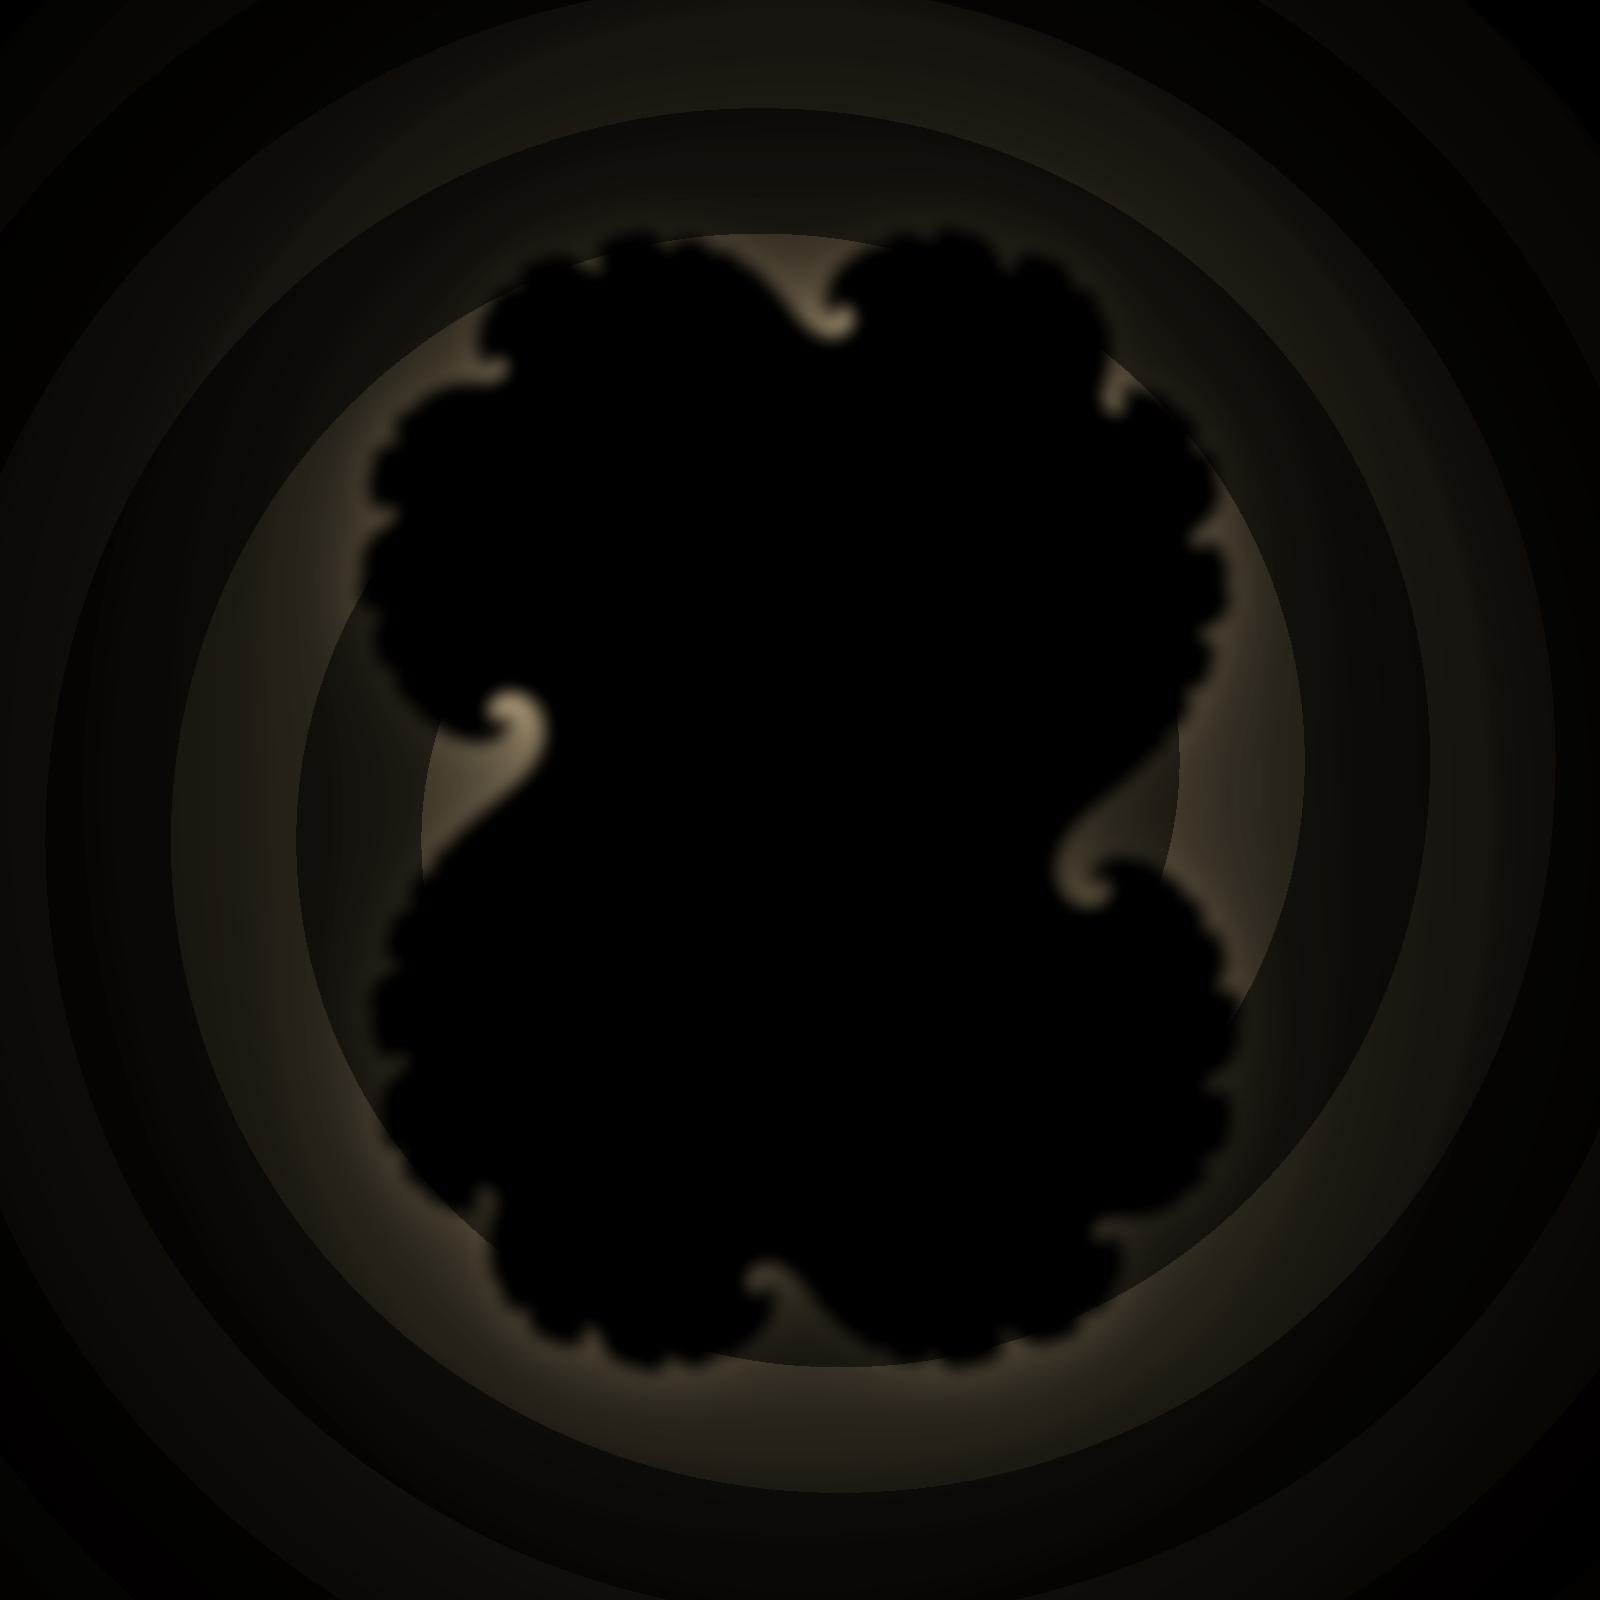
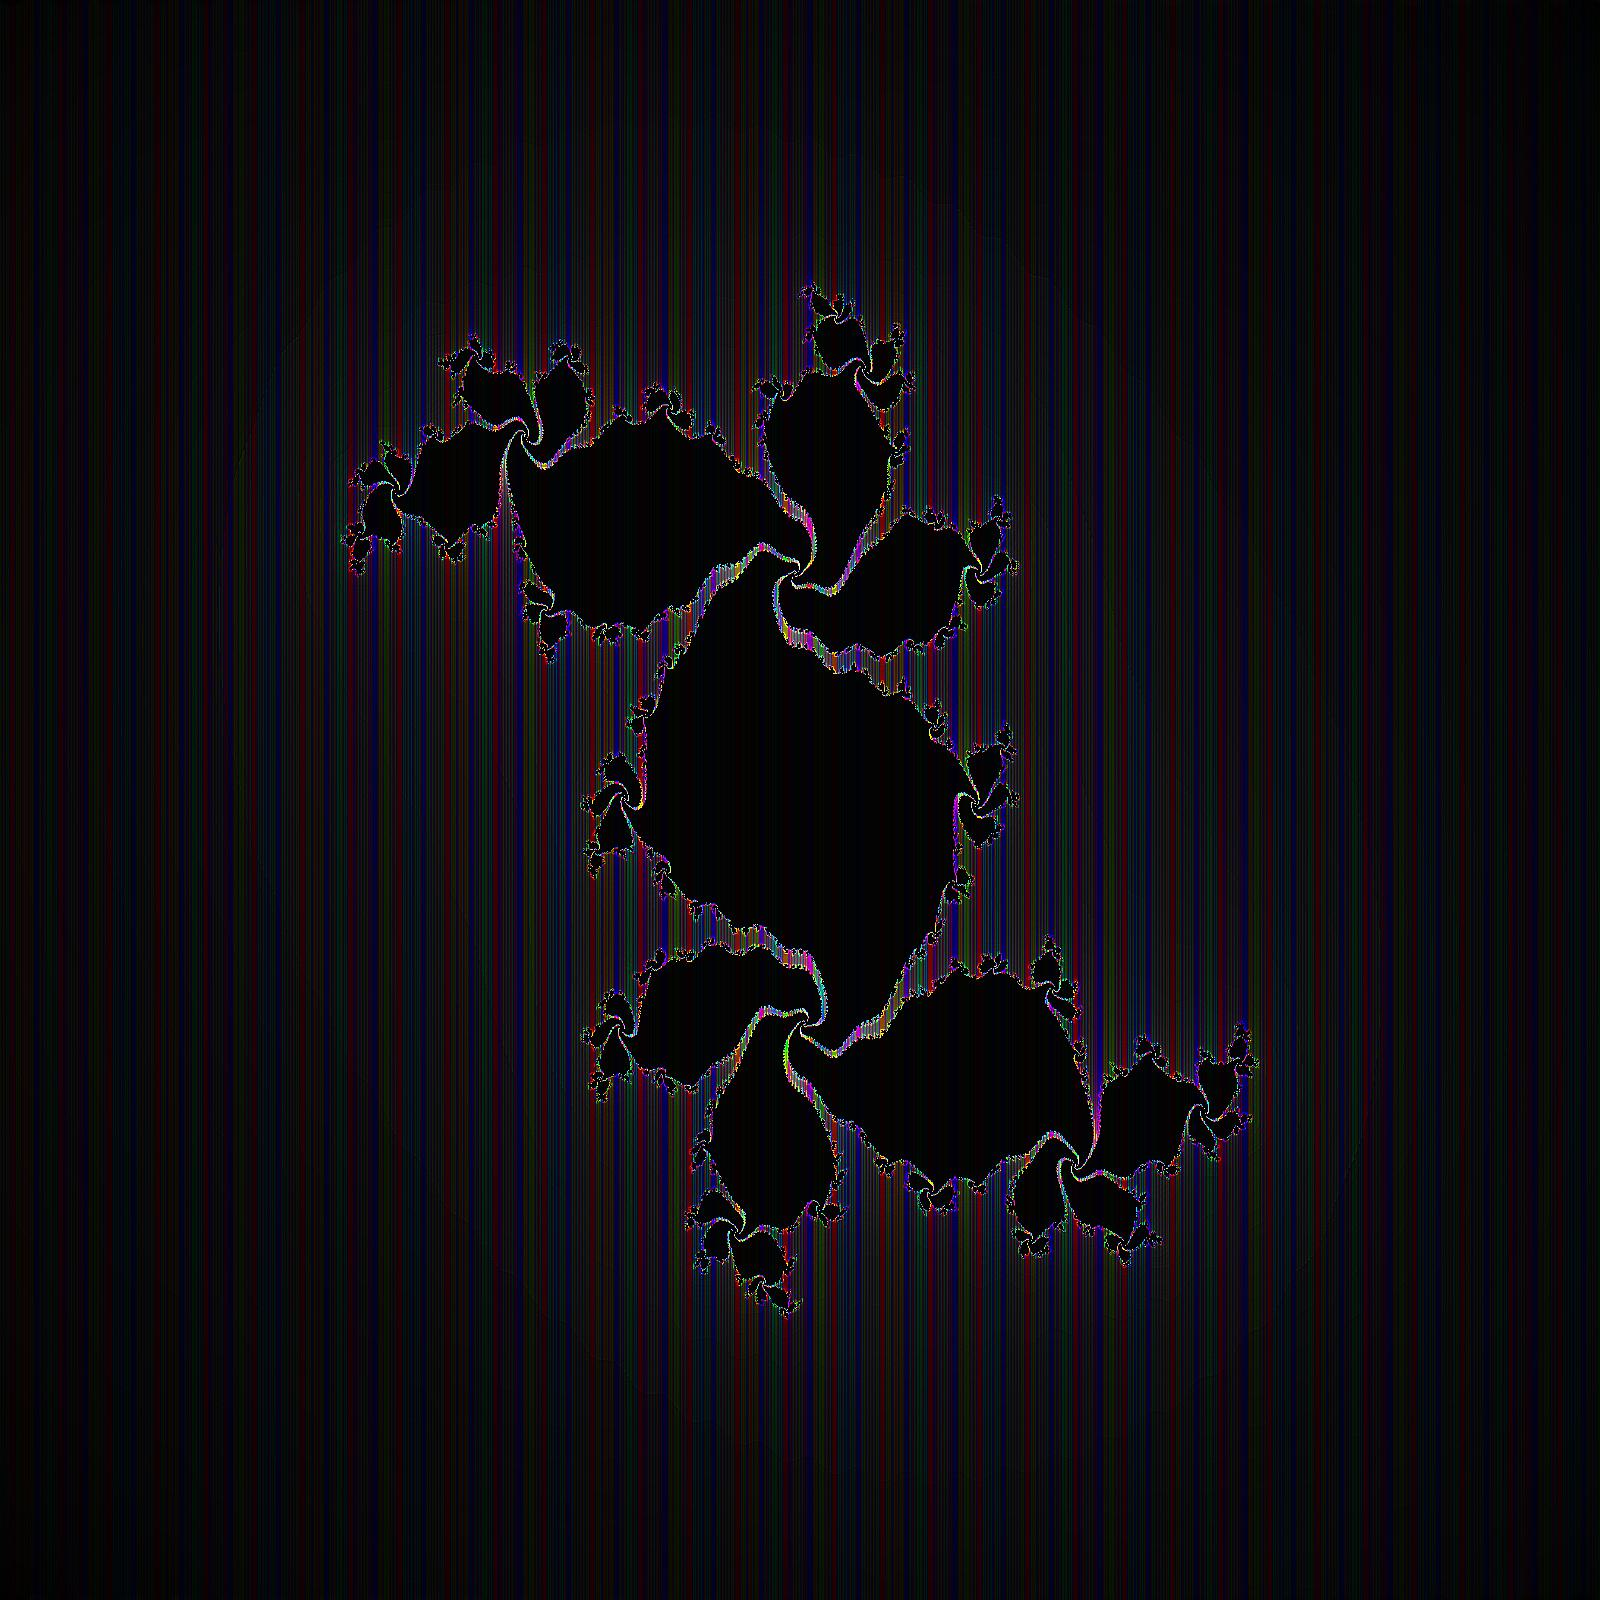
update

diff --git a/julia_render.py b/julia_render.py
@@ -1,12 +1,12 @@
 import numpy as np
-from PIL import Image, ImageFilter, ImageEnhance, ImageOps
+from PIL import Image, ImageFilter, ImageEnhance
 from matplotlib.colors import hsv_to_rgb
 
 width, height = 1600, 1600
-x_range = (-1.5, 1.5)
-y_range = (-1.5, 1.5)
-c = complex(0.27, -0.02)
-max_iter = 400
+x_range = (-1.86, 1.86)
+y_range = (-1.79, 1.79)
+c = complex(0.25, -0.52)
+max_iter = 350
 
 x = np.linspace(x_range[0], x_range[1], width)
 y = np.linspace(y_range[0], y_range[1], height)
@@ -26,40 +26,25 @@ with np.errstate(divide='ignore', invalid='ignore'):
     smooth = np.nan_to_num(smooth)
 smooth_norm = (smooth - smooth.min()) / (smooth.max() - smooth.min())
 
-# Sepia palette
-def sepia(im):
-    arr = np.array(im).astype(np.float32)
-    r, g, b = arr[..., 0], arr[..., 1], arr[..., 2]
-    tr = 0.393 * r + 0.769 * g + 0.189 * b
-    tg = 0.349 * r + 0.686 * g + 0.168 * b
-    tb = 0.272 * r + 0.534 * g + 0.131 * b
-    arr[..., 0] = np.clip(tr, 0, 255)
-    arr[..., 1] = np.clip(tg, 0, 255)
-    arr[..., 2] = np.clip(tb, 0, 255)
-    return Image.fromarray(arr.astype(np.uint8))
-
+# Bright rainbow palette
 hsv = np.zeros((height, width, 3), dtype=float)
-hsv[..., 0] = (0.1 * smooth_norm + 0.1) % 1
-hsv[..., 1] = 0.4 + 0.2 * np.abs(np.sin(2 * np.pi * smooth_norm))
-hsv[..., 2] = smooth_norm ** 0.7
+hsv[..., 0] = (smooth_norm + 0.3) % 1
+hsv[..., 1] = 0.95 - 0.4 * smooth_norm
+hsv[..., 2] = smooth_norm ** 0.4
 
 rgb = (hsv_to_rgb(hsv) * 255).astype(np.uint8)
 img = Image.fromarray(rgb)
-img = sepia(img)
-img = img.filter(ImageFilter.GaussianBlur(radius=8))
 
-# Spiral mask overlay
-def spiral_mask(im):
+img = img.filter(ImageFilter.EDGE_ENHANCE_MORE)
+
+def vertical_wave(im, amp=12, freq=0.09):
     arr = np.array(im)
-    cy, cx = arr.shape[0] // 2, arr.shape[1] // 2
-    Y, X = np.ogrid[:arr.shape[0], :arr.shape[1]]
-    theta = np.arctan2(Y - cy, X - cx)
-    mask = ((theta + np.sqrt((Y-cy)**2 + (X-cx)**2)/40) % (2*np.pi) < np.pi)
-    arr[mask] = arr[mask] // 2
+    for j in range(arr.shape[1]):
+        arr[:, j] = np.roll(arr[:, j], int(amp * np.sin(freq * j)))
     return Image.fromarray(arr)
 
-img = spiral_mask(img)
-img = ImageEnhance.Contrast(img).enhance(1.3)
+img = vertical_wave(img, amp=18, freq=0.13)
+img = ImageEnhance.Color(img).enhance(1.7)
 
 output_path = 'julia_output.jpg'
 img.save(output_path) 
